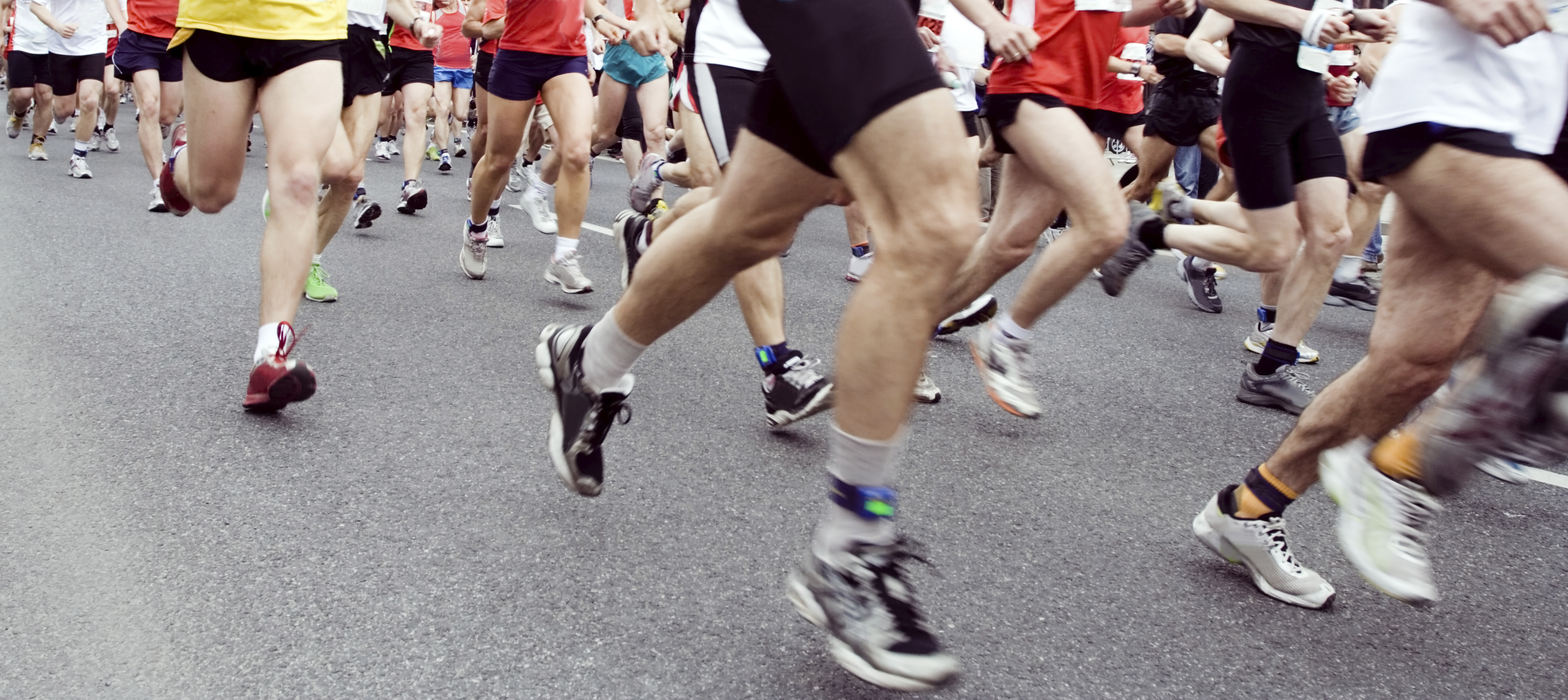
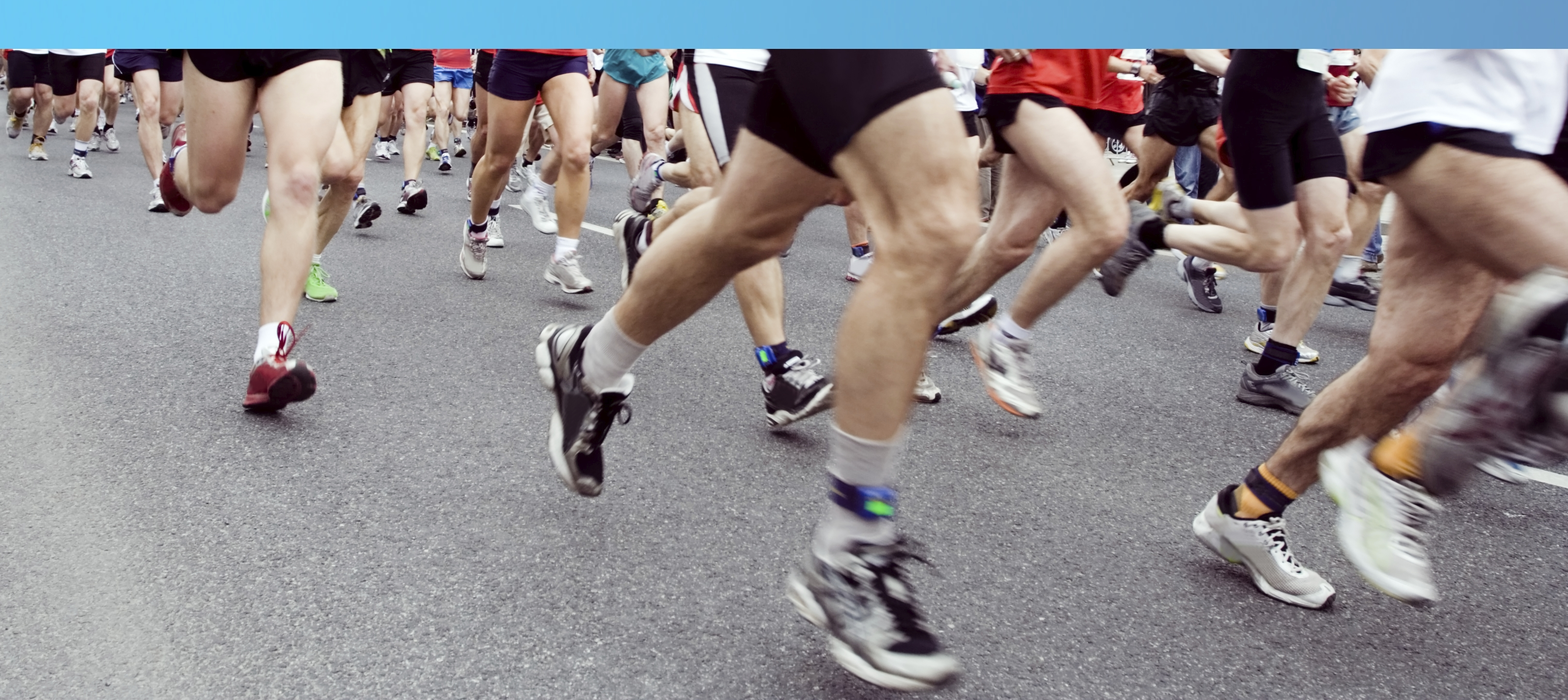
Update front page

Changed region(s): [[0.0, 0.0, 1.0, 0.0934]]

diff --git a/BlaBlaRunProject/Content/bootstrap.css b/BlaBlaRunProject/Content/bootstrap.css
@@ -4201,6 +4201,13 @@ textarea.input-group-sm > .input-group-btn > .btn {
   padding: 15px 15px;
   font-size: 18px;
   line-height: 20px;
+  background-image: url("Images/BlaBlaRunImg.png");
+  background-size: 100%;
+  background-repeat: no-repeat;
+       display: block;
+     width: 150px;
+     height: 100%;
+     text-indent: -9999px; /* hides the link text */
 }
 
 .navbar-brand:hover,
@@ -4230,12 +4237,16 @@ textarea.input-group-sm > .input-group-btn > .btn {
   display: block;
   width: 22px;
   height: 2px;
-  border-radius: 1px;
+  border-radius: 1px; 
+   
 }
 
 .navbar-toggle .icon-bar + .icon-bar {
   margin-top: 4px;
+
 }
+
+
 
 @media (min-width: 768px) {
   .navbar-toggle {
@@ -4444,6 +4455,8 @@ textarea.input-group-sm > .input-group-btn > .btn {
   background-color: #cccccc;
 }
 
+
+
 .navbar-default .navbar-collapse,
 .navbar-default .navbar-form {
   border-color: #e6e6e6;
@@ -4509,13 +4522,13 @@ textarea.input-group-sm > .input-group-btn > .btn {
   /*background-color: #222222;      
   border-color: #080808;
   */
-  background-color: #0CA9FA;  
-  border-color: #F7F7F7;  
+  background-color: #FFFFFF;  
+  border-color: #DDDDDD;  
 }
 
+
 .navbar-inverse .navbar-brand {
-  /*color: #999999;*/  
-  color: #F7F7F7;
+  color: #999999;
 }
 
 .navbar-inverse .navbar-brand:hover,
@@ -4525,19 +4538,19 @@ textarea.input-group-sm > .input-group-btn > .btn {
 }
 
 .navbar-inverse .navbar-text {
-  /*color: #999999;*/  
-  color: #F7F7F7;
+  /*color: #999999;*/ 
+  color: #333333;
 }
 
 .navbar-inverse .navbar-nav > li > a {
   /*color: #999999;*/  
-  color: #F7F7F7;
+  color: #333333;
 }
 
 .navbar-inverse .navbar-nav > li > a:hover,
 .navbar-inverse .navbar-nav > li > a:focus {
   /*color: #ffffff;*/
-    color: #000000;
+    color: #0CA9FA;
   background-color: transparent;
 }
 
@@ -4556,17 +4569,25 @@ textarea.input-group-sm > .input-group-btn > .btn {
 }
 
 .navbar-inverse .navbar-toggle {
-  border-color: #333333;
+  border-color: #dddddd;
 }
 
 .navbar-inverse .navbar-toggle:hover,
 .navbar-inverse .navbar-toggle:focus {
-  background-color: #333333;
+  background-color: #0CA9FA;
 }
 
 .navbar-inverse .navbar-toggle .icon-bar {
-  background-color: #ffffff;
+  background-color:#0CA9FA;
+
 }
+
+.navbar-inverse .navbar-toggle:hover  .icon-bar{
+  background-color:#ffffff
+
+}
+
+
 
 .navbar-inverse .navbar-collapse,
 .navbar-inverse .navbar-form {
@@ -4939,26 +4960,66 @@ a.list-group-item.active > .badge,
   margin-left: 3px;
 }
 
+
 .jumbotron {
-  padding: 30px;
+  /*padding: 30px;*/
+    position: relative;
+    z-index: 2;
+    margin: 0 -25px;        
+  /*padding: 30px;*/
   margin-bottom: 30px;
   font-size: 21px;
   font-weight: 200;
   line-height: 2.1428571435;
-  color: #F7F7F7;
-  background-color: #eeeeee;
   background-image: url("Images/iStock_000012873107Medium.jpg");
-  background-position:center;
+  /*background-position:center;*/
   background-size: 100%;
   background-repeat: no-repeat;
   width: 100%;
   height: 100%;
 }
 
+.jumbotron .hp-hero-banner {
+    position: absolute;
+    width: 100%;
+    background: #fff;
+    background: rgba(255,255,255,0.4);
+}
+
+
+.jumbotron .hp-hero-banner h2 {
+    margin: 8px 25px;
+}
+.size16 {
+    font-size: 16px !important;
+}
+.dark-gray {
+    color: #666;
+}
+
 .jumbotron h1 {
   line-height: 1;
-  color: inherit;
+  color: #fff;
+
+
 }
+
+.jumbotron .hp-hero-search {
+    padding: 90px 0 63px;
+    margin-left: 55px;
+}
+
+.jumbotron .hp-hero-search h1 {
+    color: #fff;
+    font-size: 48px;
+    line-height: 48px;
+    text-shadow: 0px 0px 2px rgba(0,0,0,0.25);
+}
+
+.margin-half-bottom {
+    margin-bottom: 9px !important;
+}
+
 
 .jumbotron p {
   line-height: 1.4;
@@ -4968,14 +5029,67 @@ a.list-group-item.active > .badge,
   border-radius: 6px;
 }
 
+.jumbotron .hp-hero-search button {
+    border-width: 1px;
+}
+
+.btn-large {
+    padding: 6px 14px;
+    font-size: 18px;
+    line-height: normal;
+}
+
+.btn-2action {
+    display: inline-block;
+    margin-bottom: 0px;
+    padding: 4px 10px 4px;
+    line-height: 18px;
+    font-family: Arial,Helvetica,sans-serif;
+    color: #fff;
+    font-size: 13px;
+    text-align: center;
+    vertical-align: middle;
+    cursor: pointer;
+    background: #ffbf00;
+    border: 1px solid #ffbf00;
+    border-bottom: 2px solid #e0a800;
+    font-weight: normal;
+    border-radius: 3px;
+    box-shadow: none;
+}
+
+
+.size22 {
+    font-size: 22px !important;
+}
+
+.jumbotron .hp-hero-footer {
+    padding: 17px 25px;
+    background: rgba(0,0,0,0.3);
+}
+
+.jumbotron .hp-hero-footer h2 {
+    color: #fff;
+    text-shadow: 0px 1px 2px rgba(0,0,0,0.75);
+}
+
+.margin-bottom {
+    margin-bottom: 17px !important;
+}
+
+.align-center {
+    text-align: center !important;
+}
+
+
 @media screen and (min-width: 768px) {
   .jumbotron {
-    padding-top: 48px;
+    /*padding-top: 48px;*/
     padding-bottom: 48px;
   }
   .container .jumbotron {
-    padding-right: 60px;
-    padding-left: 60px;
+    /*padding-right: 60px;*/
+    /*padding-left: 60px;*/
   }
   .jumbotron h1 {
     font-size: 63px;
